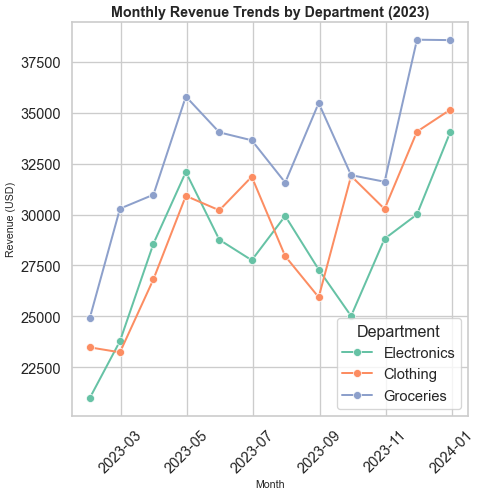
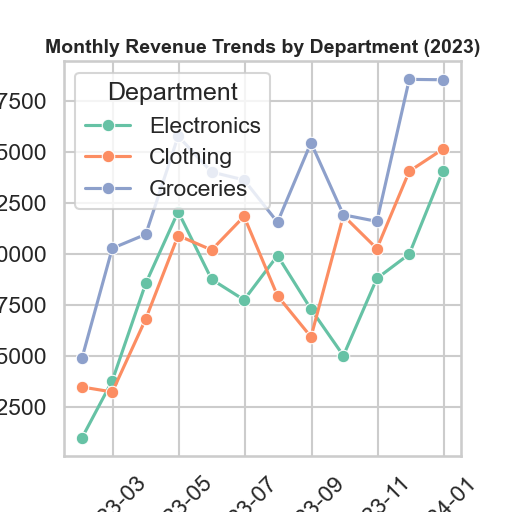
Add files via upload

Changed region(s): [[0.0, 0.0, 0.9979, 1.0], [0.842, 0.8788, 0.9667, 1.0]]

diff --git a/chart.py b/chart.py
@@ -24,8 +24,9 @@ for dept in departments:
 
 df = pd.DataFrame(data, columns=["Month", "Department", "Revenue"])
 
-# Create figure with exact dimensions for 512x512 px output
-plt.figure(figsize=(8, 8))
+# Create figure with exact dimensions for 512x512 px
+# figsize (inches) * dpi = pixels → 5.12 * 100 = 512
+plt.figure(figsize=(5.12, 5.12), dpi=100)
 
 # Lineplot
 sns.lineplot(
@@ -38,13 +39,13 @@ sns.lineplot(
 )
 
 # Titles and labels
-plt.title("Monthly Revenue Trends by Department (2023)", fontsize=16, weight="bold")
+plt.title("Monthly Revenue Trends by Department (2023)", fontsize=14, weight="bold")
 plt.xlabel("Month", fontsize=12)
 plt.ylabel("Revenue (USD)", fontsize=12)
 
-# Rotate x-axis labels for readability
+# Rotate x-axis labels
 plt.xticks(rotation=45)
 
-# Save chart with exact 512x512 pixels (8 inches * 64 dpi = 512 px)
-plt.savefig("chart.png", dpi=64, bbox_inches="tight")
+# Save without bbox_inches="tight" to preserve exact dimensions
+plt.savefig("chart.png", dpi=100)
 plt.close()
